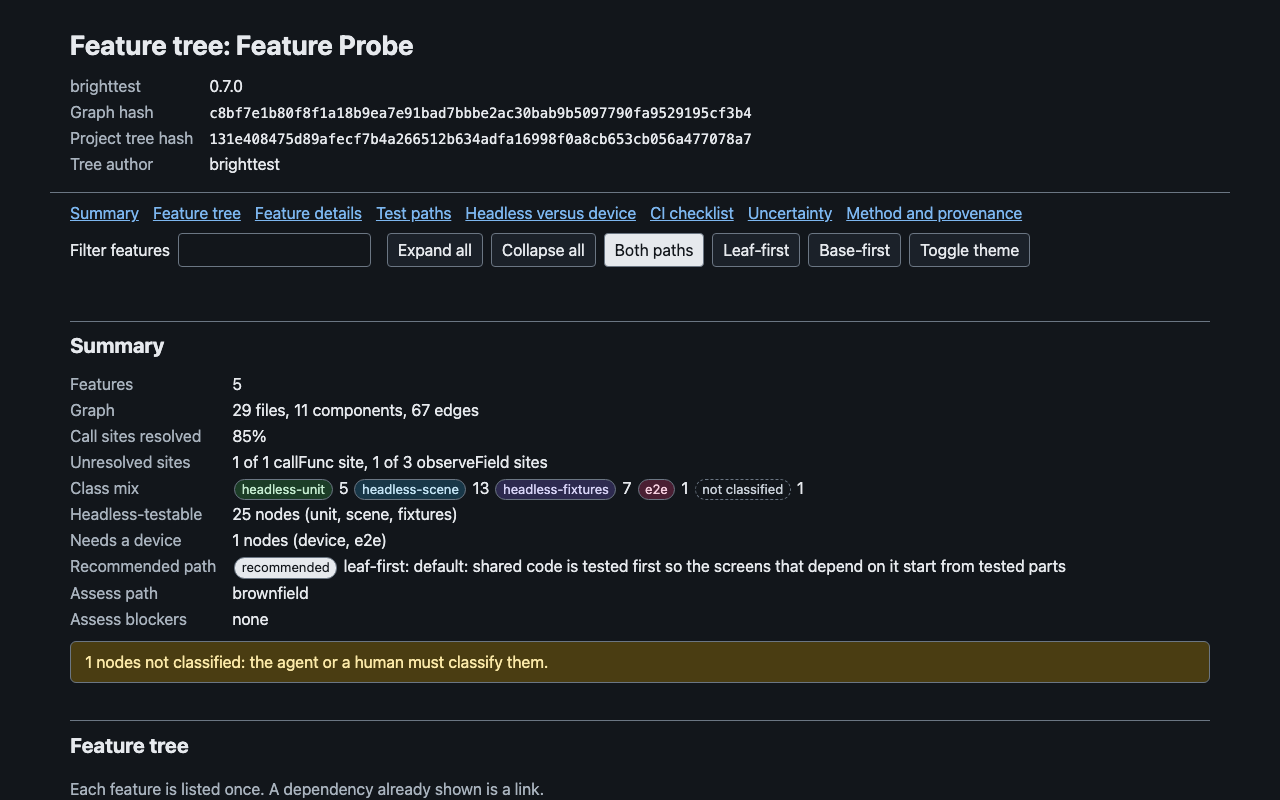
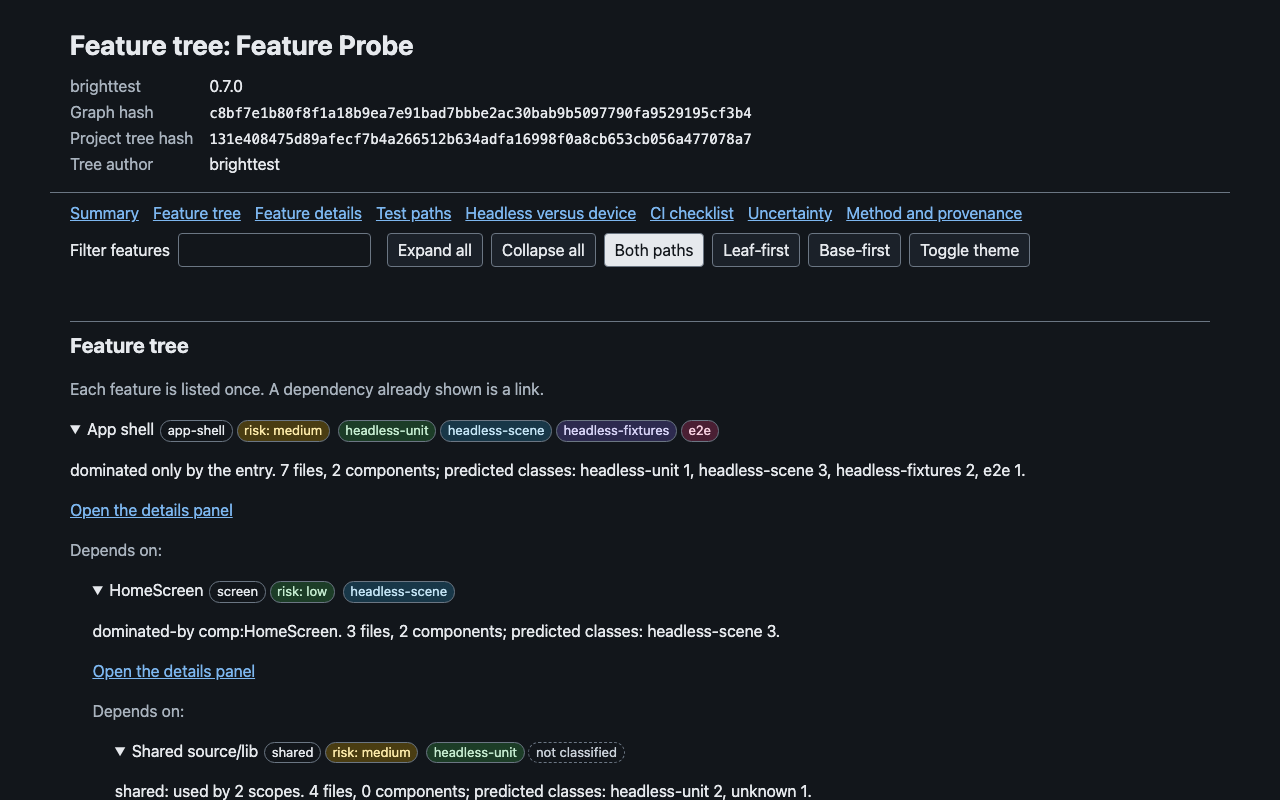
docs(mapping-results): frame screenshots on the expanded feature tree

Changed region(s): [[0.0312, 0.4062, 0.9688, 1.0]]

diff --git a/scripts/docs-mapping-results.js b/scripts/docs-mapping-results.js
@@ -50,9 +50,17 @@ function screenshot(app) {
   const dest = shotFile(app);
   fs.mkdirSync(path.dirname(dest), { recursive: true });
   const prof = fs.mkdtempSync(path.join(os.tmpdir(), 'bt-mapres-chrome-'));
+  // Frame the shot on the Feature tree section (Summary hidden, every feature expanded; scrolling is unreliable in headless screenshots): render from a temp copy of the report
+  // with its CSP meta dropped and a small script appended, so the published HTML is untouched.
+  const framed = path.join(prof, 'framed.html');
+  const inject = '<script>(function(){var s=document.getElementById("tree");if(!s)return;' +
+    's.querySelectorAll("details").forEach(function(d){d.open=true;});' +
+    'var m=document.getElementById("summary");if(m)m.style.display="none";})();</script>';
+  fs.writeFileSync(framed, fs.readFileSync(outFile(app), 'utf8')
+    .replace(/<meta http-equiv="Content-Security-Policy"[^>]*>/, '').replace('</body>', inject + '</body>'));
   try {
     const r = spawnSync(chrome, ['--headless=new', '--disable-gpu', '--no-first-run', '--hide-scrollbars', `--user-data-dir=${prof}`,
-      '--window-size=1280,800', '--force-device-scale-factor=1', `--screenshot=${dest}`, require('url').pathToFileURL(outFile(app)).href],
+      '--window-size=1280,800', '--force-device-scale-factor=1', `--screenshot=${dest}`, require('url').pathToFileURL(framed).href],
     { stdio: 'ignore', timeout: 60000, killSignal: 'SIGKILL' });
     if (r.error || !fs.existsSync(dest)) throw new Error(`screenshot of ${app} failed`);
   } finally {
